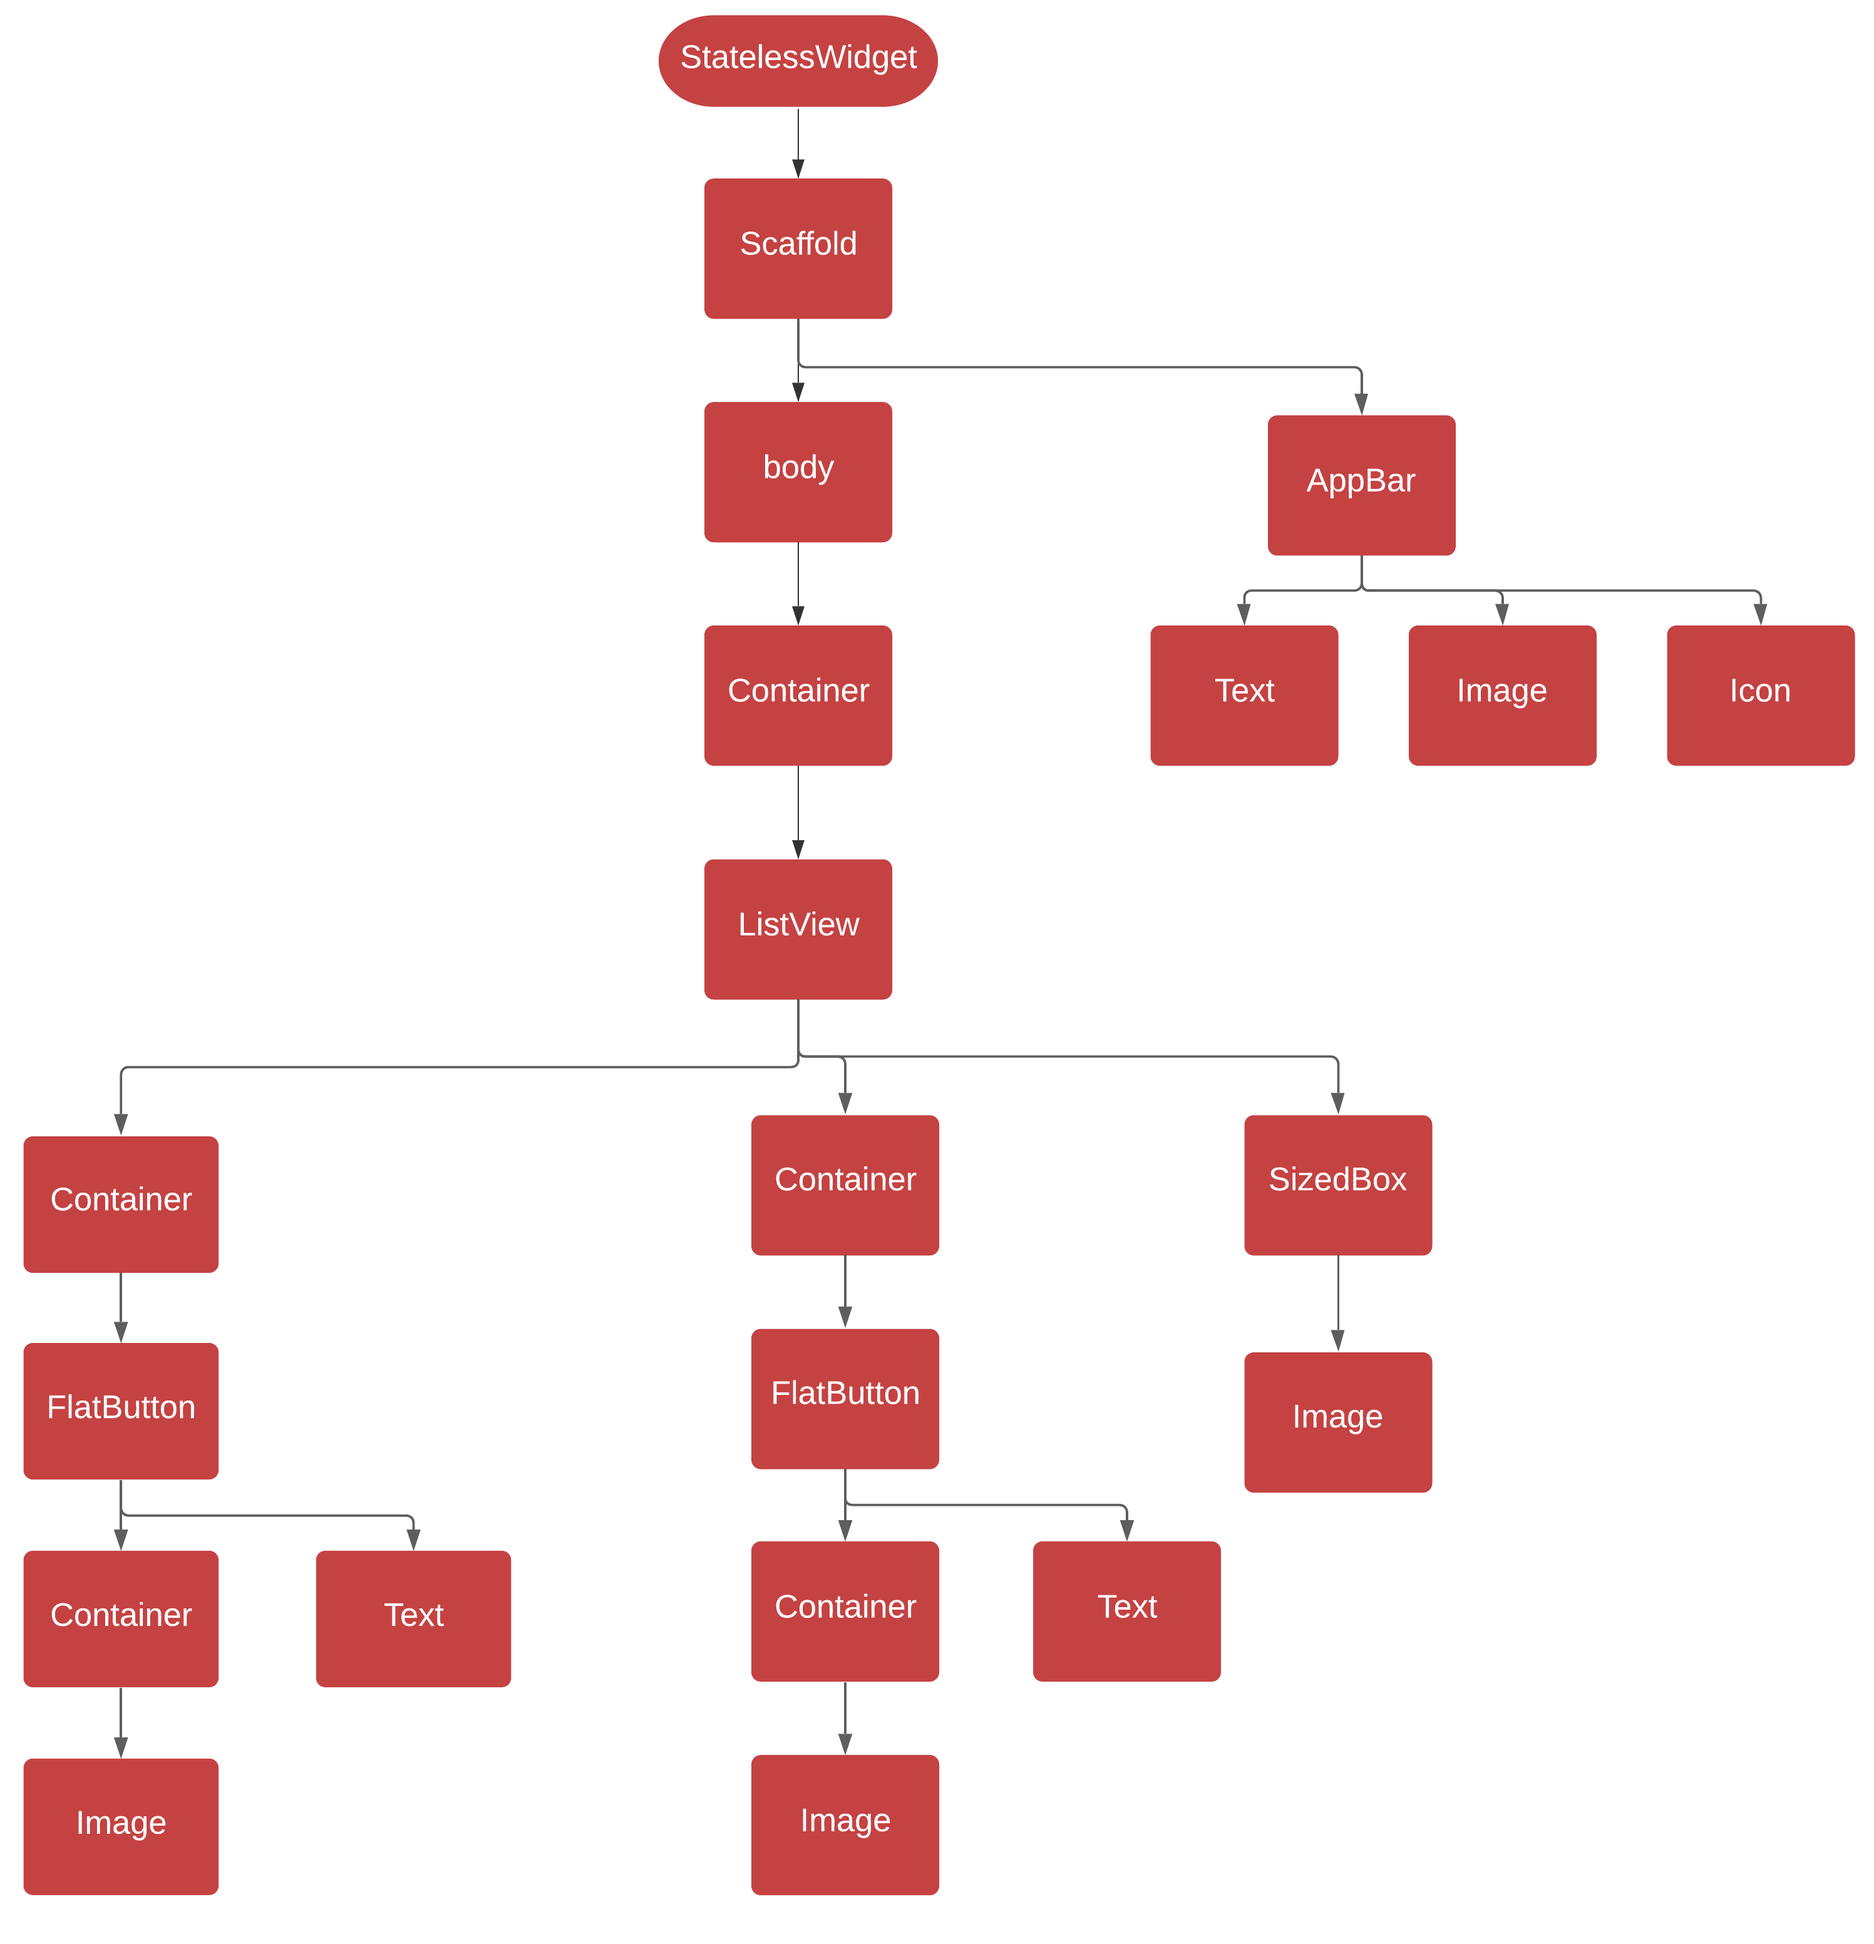
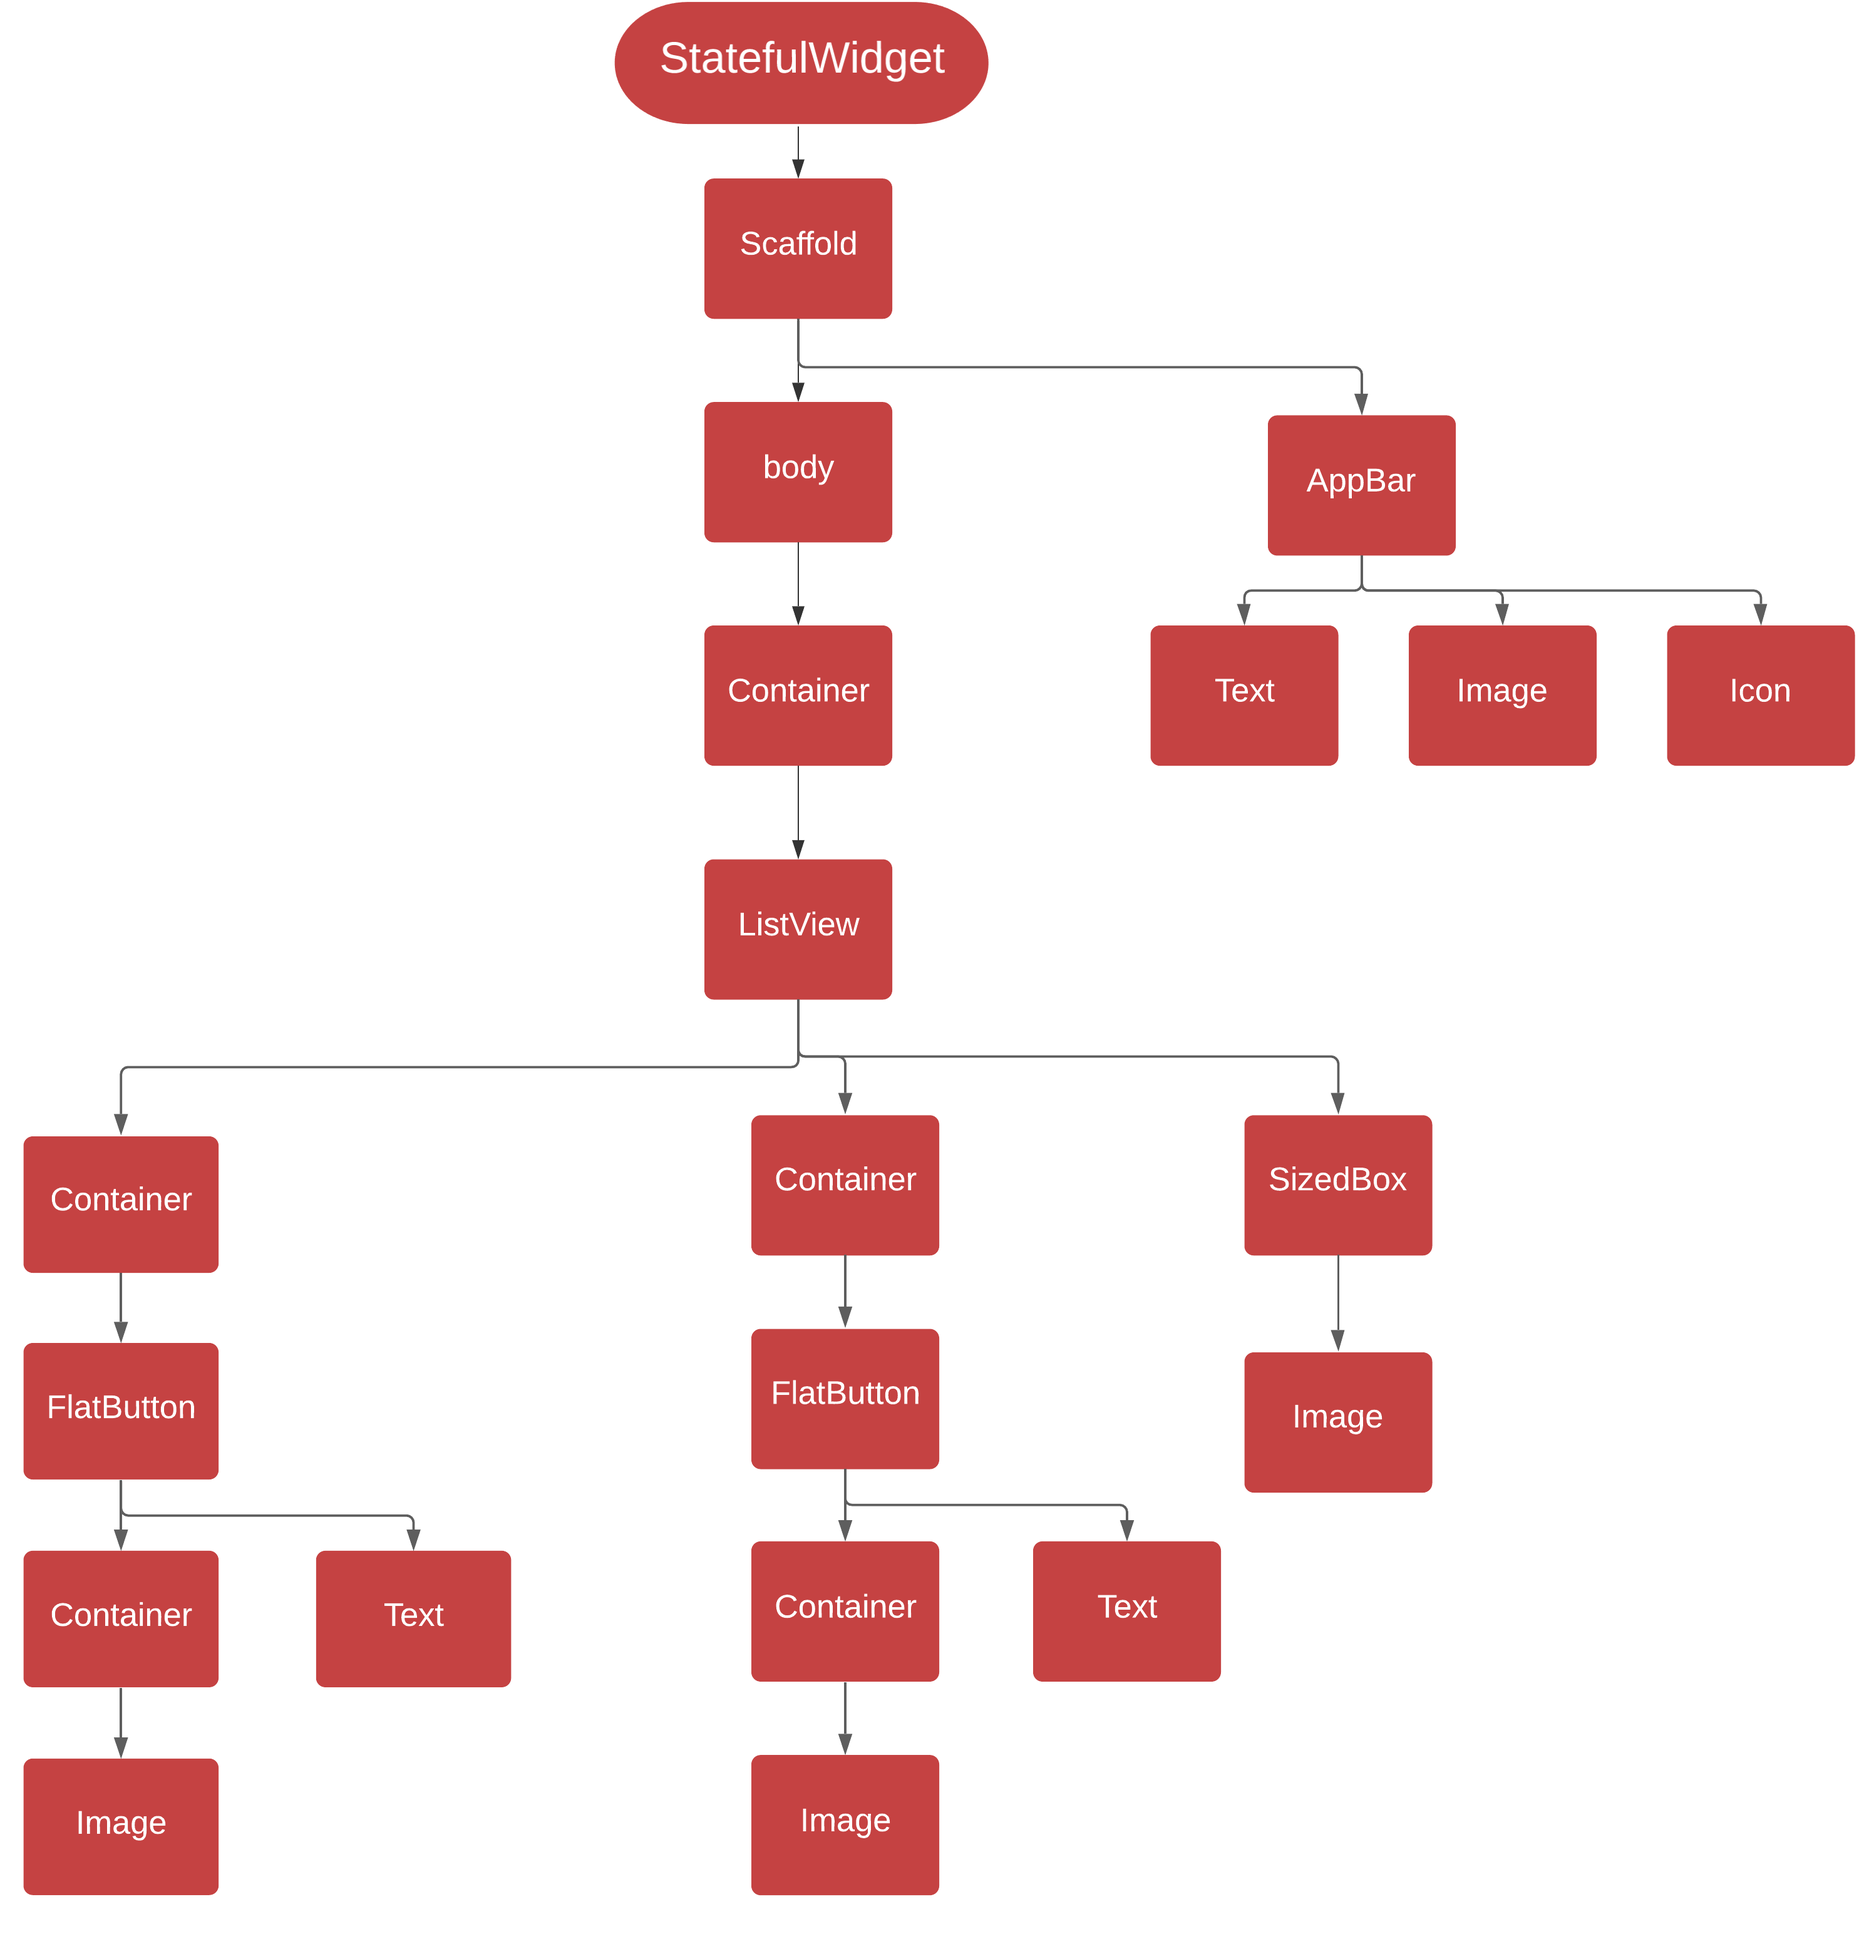
Ajustes nas imagens de documentação do app

Changed region(s): [[0.3107, 0.0, 0.5282, 0.0625]]

diff --git a/lib/views/home_page.dart b/lib/views/home_page.dart
@@ -1,16 +1,33 @@
+import 'dart:async';
+
 import 'package:audioplayers/audio_cache.dart';
 import 'package:audioplayers/audioplayers.dart';
 import 'package:cai_aqui/views/alert_page.dart';
 import 'package:flutter/material.dart';
+import 'package:sensors/sensors.dart';
 
 import 'contact_page.dart';
 
 AudioPlayer advancedPlayer = AudioPlayer();
 AudioCache audioCache = AudioCache(fixedPlayer: advancedPlayer);
 
-class HomePage extends StatelessWidget {
+class HomePage extends StatefulWidget {
+  @override
+  _HomePageState createState() => _HomePageState();
+}
+
+class _HomePageState extends State<HomePage> {
+  List<Object> _accelerometerValues;
+
+  List<StreamSubscription<dynamic>> _streamSubscriptions =
+      <StreamSubscription<dynamic>>[];
+
   @override
   Widget build(BuildContext context) {
+    final List<String> accelerometer =
+        _accelerometerValues?.map((Object v) => v.toString())?.toList();
+
+    // print(accelerometer);
     return Scaffold(
       appBar: AppBar(
         backgroundColor: Colors.white,
@@ -145,6 +162,7 @@ class HomePage extends StatelessWidget {
                         builder: (context) => AlertPage(),
                       ),
                     );
+                    // }
                   },
                 ),
               ),
@@ -209,27 +227,30 @@ class HomePage extends StatelessWidget {
       ),
     );
   }
-}
 
-@override
-Widget build(BuildContext context) {
-  // advancedPlayer.stop();
-  return new WillPopScope(
-    child: new Scaffold(
-      appBar: new AppBar(
-          // title: new Text('Page 2'),
-          ),
-      body: new Center(
-          // child: new Text('PAGE 2'),
-          ),
-    ),
-    onWillPop: () async {
-      return false;
-    },
-  );
-}
+  @override
+  void dispose() {
+    super.dispose();
+    for (StreamSubscription<dynamic> subscription in _streamSubscriptions) {
+      subscription.cancel();
+    }
+  }
 
-Future<T> pushPage<T>(BuildContext context, Widget page) {
-  return Navigator.of(context)
-      .push<T>(MaterialPageRoute(builder: (context) => page));
+  @override
+  void initState() {
+    super.initState();
+    _streamSubscriptions
+        .add(accelerometerEvents.listen((AccelerometerEvent event) {
+      setState(() {
+        int now = (new DateTime.now()).millisecondsSinceEpoch;
+        now = (now / 1000).round();
+        _accelerometerValues = <Object>[
+          event.x.toInt(),
+          event.y.toInt(),
+          event.z.toInt(),
+          now
+        ];
+      });
+    }));
+  }
 }

diff --git a/lib/views/alert_page.dart b/lib/views/alert_page.dart
@@ -15,7 +15,7 @@ class AlertPage extends StatefulWidget {
 class _OtpTimerState extends State<AlertPage> {
   final interval = const Duration(seconds: 1);
 
-  final int timerMaxSeconds = 10;
+  final int timerMaxSeconds = 30;
 
   int currentSeconds = 0;
 
@@ -115,7 +115,7 @@ class _OtpTimerState extends State<AlertPage> {
             SizedBox(
               child: Center(
                 child: Text(
-                  "Um pedido de Ajuda será enviado para os "
+                  "Um pedido de ajuda será enviado para os "
                   "números cadastrados, assim que o "
                   "tempo chegar em 00:00. ",
                   style: TextStyle(

diff --git a/lib/provider/user_provider.dart b/lib/provider/user_provider.dart
@@ -8,7 +8,7 @@ import 'package:flutter/material.dart';
 import 'package:http/http.dart' as http;
 
 class UserProvider with ChangeNotifier {
-  static const _baseUrl = '';
+  static const _baseUrl = 'https://caiaqui-firebase-teste.firebaseio.com/';
   Map<String, User> _items = {...DUMMY_USER};
   final List<User> loadeduser = [];
   var resultado = false;

diff --git a/lib/provider/contacts_provider.dart b/lib/provider/contacts_provider.dart
@@ -8,7 +8,7 @@ import 'package:flutter/material.dart';
 import 'package:http/http.dart' as http;
 
 class ContactsProvider with ChangeNotifier {
-  static const _baseUrl = '';
+  static const _baseUrl = 'https://caiaqui-firebase-teste.firebaseio.com/';
   Map<String, Contact> _items = {...DUMMY_CONTACTS};
   final List<Contact> loadedContacts = [];
 

diff --git a/lib/main.dart b/lib/main.dart
@@ -8,7 +8,6 @@ import 'package:cai_aqui/views/signup_page.dart';
 import 'package:cai_aqui/views/splash_page.dart';
 import 'package:flutter/material.dart';
 import 'package:provider/provider.dart';
-// import 'package:sensors/sensors.dart';
 
 // import 'snake.dart';
 
